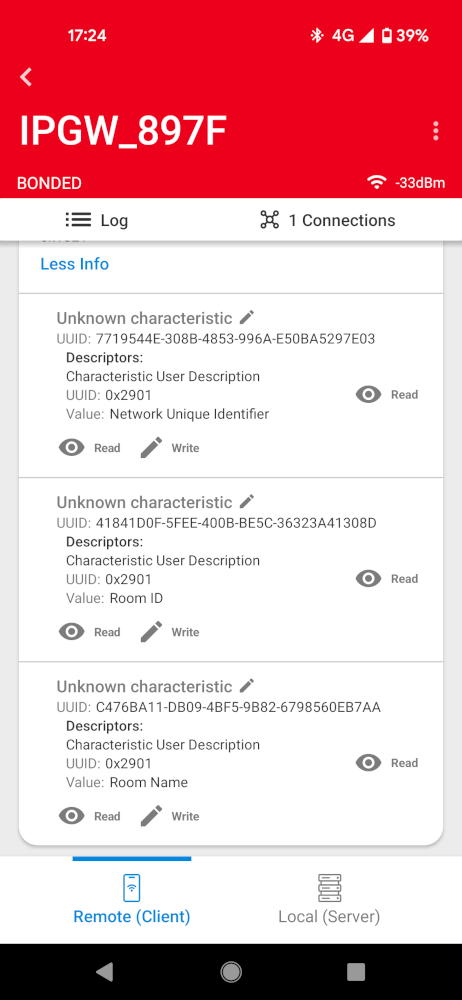
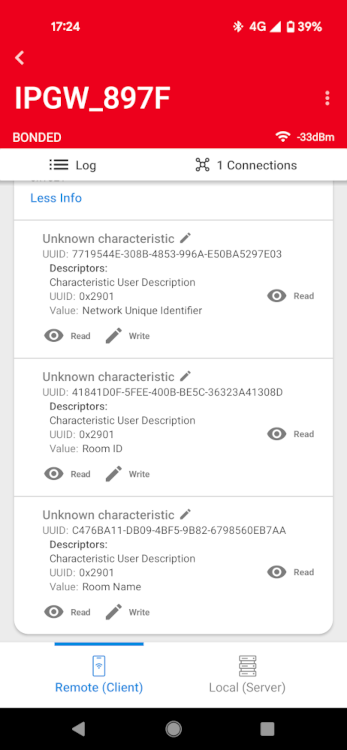
Images resized and readme update

diff --git a/bluetooth_rssi_positioning/Readme.MD b/bluetooth_rssi_positioning/Readme.MD
@@ -65,7 +65,7 @@ To set this application up, you can either import the provided `bluetooth_indoor
     - Install **[Platform] > [Driver] > [I2CSPM]** component with add new instance name: **qwiic**. 
       - Set this component to use I2C1 peripheral, SCL to PD02 pin, SDA to PD03 pin.
 
-      ![i2c qwiic](images/i2c_qwiic.png)
+      ![i2c_qwiic](images/i2c_qwiic.png)
 
     - Install **[Platform] > [IO Stream] > [IO Stream: USART]** component with the default instance name: **vcom**.
 
@@ -95,7 +95,7 @@ To set this application up, you can either import the provided `bluetooth_indoor
 
 The Initialization software flow is as follows:
 
-![Flow diagram](images/initialization.png)
+![Flow_diagram_init](images/initialization.png)
 
 
 
@@ -156,7 +156,7 @@ Follow the below steps to configure the devices for the example with the EFR Con
 
 8. You can launch the Console that is integrated on Simplicity Studio or can use a third-party terminal tool like TeraTerm to receive the data from the virtual COM port. Use the following UART settings: baud rate 115200, 8N1, no flow control. You should expect a similar output to the one below.
 
-    ![logs](images/logs_asset.png)        ![logs](images/logs_config_asset.png)
+    ![logs_asset](images/logs_asset.png)        ![logs_config_asset](images/logs_config_asset.png)
 
 ### GATT Configurator ###
 
